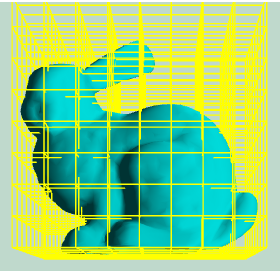
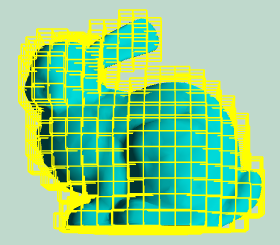
Updated Octree to remove boxes with no vertices.

diff --git a/Octree_selection/javascript/octree.js b/Octree_selection/javascript/octree.js
@@ -119,25 +119,29 @@ var initOctree = function (meshVertices, octree, level, gl) {
         c8.back = octree.back;
         c8.meshIndices = [];
 
-        octree.children = [c1, c2, c3, c4, c5, c6, c7, c8];
-
-        for (var j = 0; j < octree.children.length; j++) {
-            octree.children[j].meshIndices = [];
+        //octree.children = [c1, c2, c3, c4, c5, c6, c7, c8];
+        var octreeChildrens = [c1, c2, c3, c4, c5, c6, c7, c8];
+        for (var j = 0; j < octreeChildrens.length; j++) {
+            //octree.children[j].meshIndices = [];
+            octreeChildrens[j].meshIndices = [];
             //var tmpVert = [];
             for (var i = 0; i < octree.meshIndices.length; i++) {
                 index = octree.meshIndices[i];
-                if (octree.children[j].left <= meshVertices[index * 3 + 0] && meshVertices[index * 3 + 0] <= octree.children[j].right &&
-                    octree.children[j].bottom <= meshVertices[index * 3 + 1] && meshVertices[index * 3 + 1] <= octree.children[j].top &&
-                    octree.children[j].back <= meshVertices[index * 3 + 2] && meshVertices[index * 3 + 2] <= octree.children[j].front) {
+                if (octreeChildrens[j].left <= meshVertices[index * 3 + 0] && meshVertices[index * 3 + 0] <= octreeChildrens[j].right &&
+                    octreeChildrens[j].bottom <= meshVertices[index * 3 + 1] && meshVertices[index * 3 + 1] <= octreeChildrens[j].top &&
+                    octreeChildrens[j].back <= meshVertices[index * 3 + 2] && meshVertices[index * 3 + 2] <= octreeChildrens[j].front) {
 
                     //tmpVert.push(meshVertices[index * 3 + 0]);
                     //tmpVert.push(meshVertices[index * 3 + 1]);
                     //tmpVert.push(meshVertices[index * 3 + 2]);
-                    octree.children[j].meshIndices.push(index);
+                    //octree.children[j].meshIndices.push(index);
+                    octreeChildrens[j].meshIndices.push(index);
                 }
             }
-
-            initOctree(meshVertices, octree.children[j], level - 1, gl);
+            if (octreeChildrens[j].meshIndices.length > 0) {
+                initOctree(meshVertices, octreeChildrens[j], level - 1, gl);
+                octree.children.push(octreeChildrens[j]);
+            }
         }
     }
 };

diff --git a/Octree_selection/javascript/app.js b/Octree_selection/javascript/app.js
@@ -304,7 +304,7 @@ var RunDemo = function (vertexShaderText, fragmentShaderText, boxVertexShaderTex
     initBunnyModel();
 
     initBoxShadersAndProgram();
-    octree = createOctree(model.meshes[0].vertices, 5, gl);
+    octree = createOctree(model.meshes[0].vertices, 9, gl);
 
     var getMouseXY = function (canvas, event) {
         const rect = canvas.getBoundingClientRect();
@@ -386,7 +386,7 @@ var RunDemo = function (vertexShaderText, fragmentShaderText, boxVertexShaderTex
             octreeVisible = !octreeVisible;
         }
 
-        if (e.key >= '1' && e.key <= '5') {
+        if (e.key >= '1' && e.key <= '9') {
             octreeLevel = e.key - '1';
         }
     });

diff --git a/Octree_selection/index.html b/Octree_selection/index.html
@@ -7,7 +7,7 @@
             Your browser does not suppport HTML5
         </canvas>
         <br />
-        <i>Press 'v' to make octree visible/invisible. Press numbers between '1' and '5' to change octree depth. Click a box to select.</i>
+        <i>Press 'v' to make octree visible/invisible. Press numbers between '1' and '9' to change octree depth. Click a box to select.</i>
         <br />
         <i>Bunny model downloaded from <a href="https://graphics.stanford.edu/~mdfisher/Data/Meshes/bunny.obj"> https://graphics.stanford.edu/~mdfisher/Data/Meshes/bunny.obj </a></i>
         <br />
